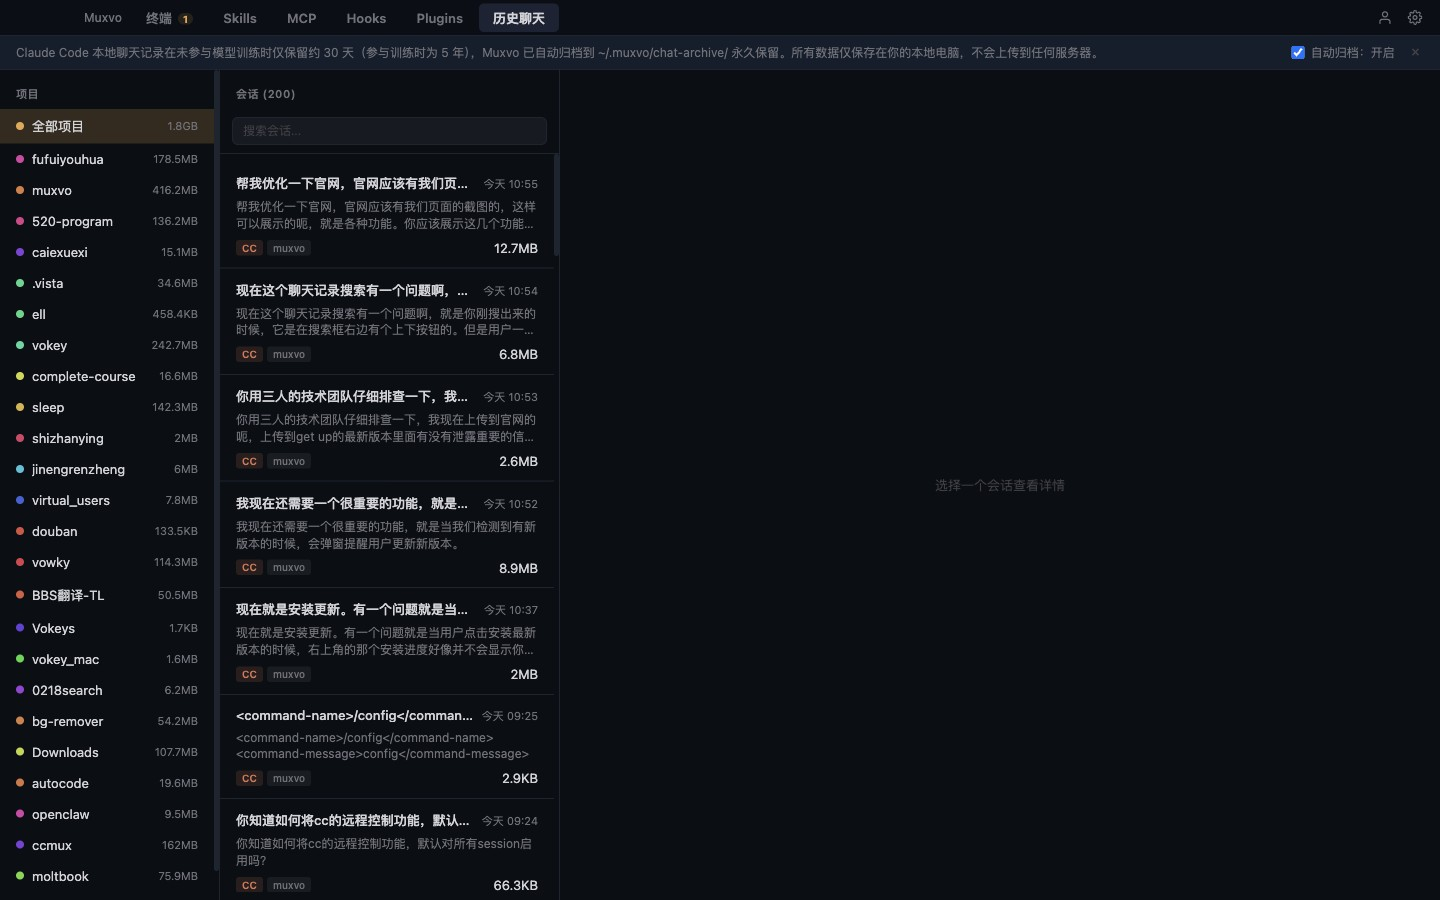
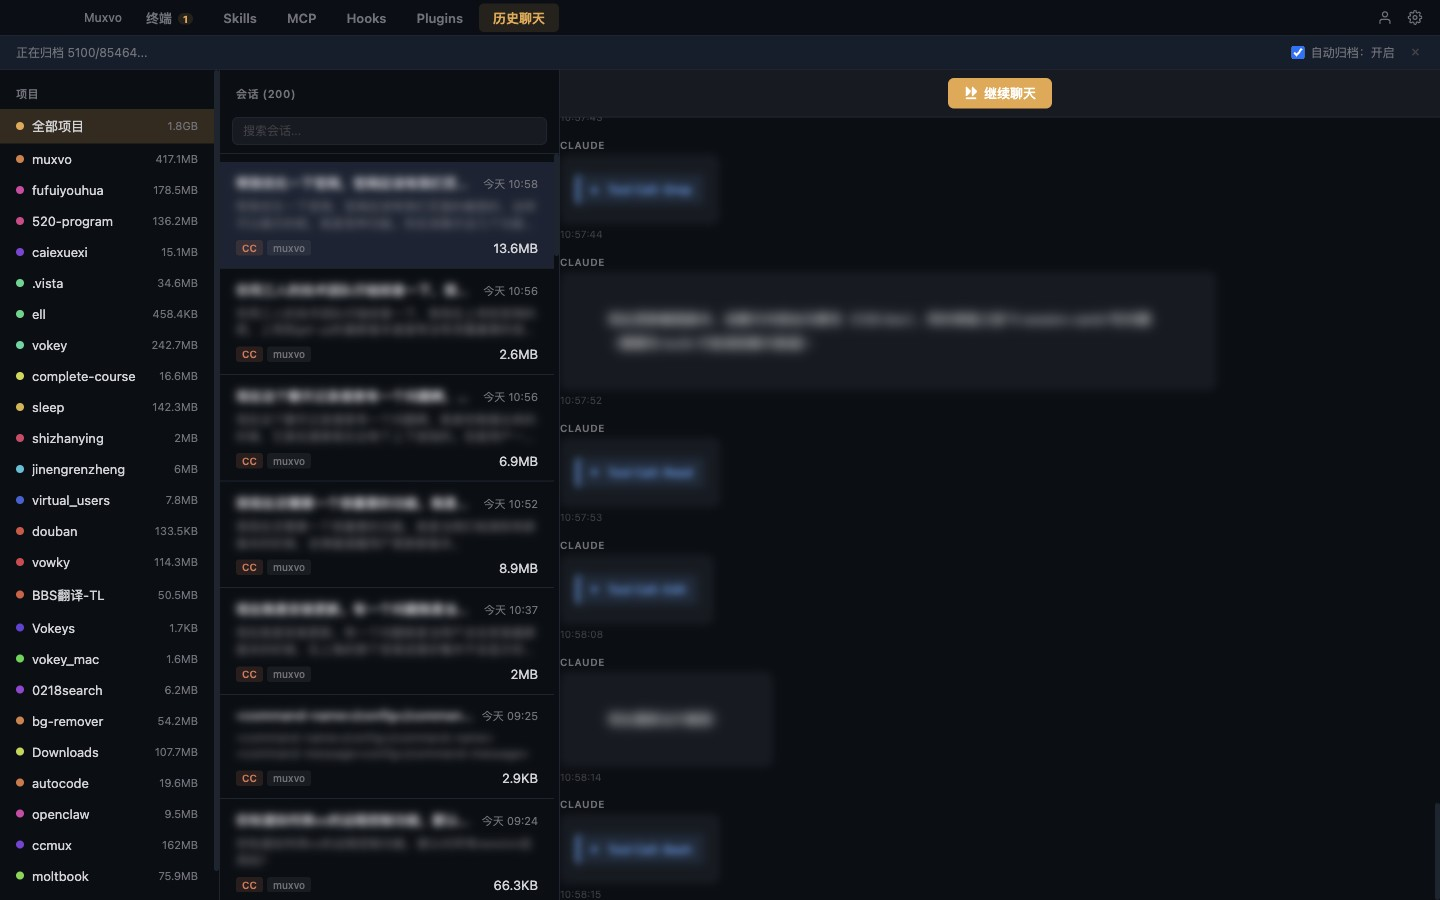
✨ feat: 更新截图脚本并新增暗色主题截图
- 新增暗色主题截图：dark-4terminals.jpg 和 dark-focused.jpg
- 优化截图脚本：支持强制应用暗色主题到终端
- 改进隐私保护：为聊天历史截图添加内容模糊效果
- 更新截图流程：通过点击 FAB 按钮创建多个终端实例
- 优化截图质量：重新生成 dark-multi-tool.jpg 和 dark-resume-chat.jpg，文件大小更合理

diff --git a/web/scripts/take-screenshots.ts b/web/scripts/take-screenshots.ts
@@ -1,7 +1,11 @@
 /**
- * Playwright Electron Screenshot Script — v2
+ * Playwright Electron Screenshot Script — v4
  *
- * Takes dark-theme screenshots for the Muxvo website.
+ * Takes dark-theme screenshots of Muxvo for the website.
+ * - Forces xterm dark theme via muxvo:theme-change event
+ * - Creates multiple terminals via .terminal-grid__fab button
+ * - Triggers focused mode via double-click on terminal tile
+ * - Blurs chat content for privacy
  *
  * Prerequisites: npx electron-vite build
  * Run: npx tsx web/scripts/take-screenshots.ts
@@ -39,6 +43,17 @@ async function startStaticServer(): Promise<ChildProcess> {
   return server;
 }
 
+/** Force xterm dark theme via the app's custom event */
+async function forceXtermDarkTheme(page: any) {
+  await page.evaluate(() => {
+    // Dispatch the app's theme-change event so xterm picks up dark theme
+    window.dispatchEvent(new CustomEvent('muxvo:theme-change', {
+      detail: { theme: 'dark' },
+    }));
+  });
+  await page.waitForTimeout(500);
+}
+
 async function main() {
   console.log('Starting static server for renderer...');
   const server = await startStaticServer();
@@ -56,29 +71,57 @@ async function main() {
   });
   const page = await app.firstWindow();
   await page.waitForLoadState('domcontentloaded');
-  await page.waitForTimeout(5000);
+  await page.waitForTimeout(6000); // Wait for React mount + data load
 
-  // Force dark theme
+  // Force dark theme on the whole app
   await page.evaluate(() => {
     document.documentElement.setAttribute('data-theme', 'dark');
   });
   await page.setViewportSize({ width: 1440, height: 900 });
   await page.waitForTimeout(500);
 
+  // Force xterm dark theme
+  await forceXtermDarkTheme(page);
+
   try {
-    // ── Screenshot 1: Chat History with Resume Bar ──────────────
+    // ════════════════════════════════════════════════════════════
+    // Screenshot 1: Chat History with blurred content + resume bar
+    // ════════════════════════════════════════════════════════════
     console.log('📸 Screenshot 1: dark-resume-chat.jpg');
     const chatTab = page.locator('.menu-bar__tab', { hasText: /历史聊天|Chat/ });
     await chatTab.click();
-    await page.waitForTimeout(2000);
+    await page.waitForTimeout(3000);
 
-    // Click first session to show detail panel + resume bar
-    const sessionCard = page.locator('.session-card').first();
-    const hasSession = await sessionCard.isVisible({ timeout: 5000 }).catch(() => false);
-    if (hasSession) {
-      await sessionCard.click();
-      await page.waitForTimeout(2000);
+    // Click first session to show detail + resume bar
+    const sessionCards = page.locator('.session-card');
+    const cardCount = await sessionCards.count();
+    console.log(`  Found ${cardCount} session cards`);
+    if (cardCount > 0) {
+      await sessionCards.first().click();
+      await page.waitForTimeout(3000);
     }
+
+    // Blur chat content for privacy
+    await page.evaluate(() => {
+      const style = document.createElement('style');
+      style.id = 'privacy-blur';
+      style.textContent = `
+        .session-card__title,
+        .session-card__preview,
+        .session-card__snippet { filter: blur(4px) !important; }
+        .message-bubble__text,
+        .message-bubble__content,
+        .message-content,
+        [class*="message"] p,
+        [class*="message"] pre,
+        [class*="message"] code,
+        .session-detail__messages .msg__body,
+        .session-detail__messages .msg__text { filter: blur(4px) !important; }
+        .project-item__name { filter: blur(3px) !important; }
+      `;
+      document.head.appendChild(style);
+    });
+    await page.waitForTimeout(300);
 
     await page.screenshot({
       path: resolve(OUTPUT, 'dark-resume-chat.jpg'),
@@ -87,21 +130,71 @@ async function main() {
     });
     console.log('  ✅ dark-resume-chat.jpg saved');
 
-    // ── Screenshot 2: Terminals (default view) ──────────────────
-    console.log('📸 Screenshot 2: dark-terminals.jpg (terminals view)');
+    // Remove blur
+    await page.evaluate(() => document.getElementById('privacy-blur')?.remove());
+
+    // ════════════════════════════════════════════════════════════
+    // Create 4 terminals for tiling + focused mode screenshots
+    // ════════════════════════════════════════════════════════════
+    console.log('📸 Preparing terminals...');
     const termTab = page.locator('.menu-bar__tab').first();
     await termTab.click();
-    await page.waitForTimeout(1000);
+    await page.waitForTimeout(1500);
 
+    // Click the FAB "+" button to add terminals (need 3 more for total 4)
+    const fabBtn = page.locator('.terminal-grid__fab');
+    for (let i = 0; i < 3; i++) {
+      const visible = await fabBtn.isVisible({ timeout: 3000 }).catch(() => false);
+      if (visible) {
+        await fabBtn.click();
+        await page.waitForTimeout(2000);
+        // Re-apply dark xterm theme for each new terminal
+        await forceXtermDarkTheme(page);
+      } else {
+        console.log(`  FAB button not visible at iteration ${i}`);
+        break;
+      }
+    }
+    await page.waitForTimeout(1000);
+    // Force dark theme again for all terminals
+    await forceXtermDarkTheme(page);
+    await page.waitForTimeout(500);
+
+    // ════════════════════════════════════════════════════════════
+    // Screenshot 2: 4 Terminals tiled
+    // ════════════════════════════════════════════════════════════
+    console.log('📸 Screenshot 2: dark-4terminals.jpg');
     await page.screenshot({
-      path: resolve(OUTPUT, 'dark-terminals.jpg'),
+      path: resolve(OUTPUT, 'dark-4terminals.jpg'),
       type: 'jpeg',
       quality: 90,
     });
-    console.log('  ✅ dark-terminals.jpg saved');
+    console.log('  ✅ dark-4terminals.jpg saved');
 
-    // ── Screenshot 3: Skills Panel ──────────────────────────────
-    console.log('📸 Screenshot 3: dark-skills.jpg');
+    // ════════════════════════════════════════════════════════════
+    // Screenshot 3: Focused mode (double-click first terminal tile)
+    // ════════════════════════════════════════════════════════════
+    console.log('📸 Screenshot 3: dark-focused.jpg');
+    const firstTile = page.locator('.terminal-tile').first();
+    const tileVisible = await firstTile.isVisible({ timeout: 3000 }).catch(() => false);
+    if (tileVisible) {
+      await firstTile.dblclick();
+      await page.waitForTimeout(1500);
+      await forceXtermDarkTheme(page);
+      await page.waitForTimeout(500);
+    }
+
+    await page.screenshot({
+      path: resolve(OUTPUT, 'dark-focused.jpg'),
+      type: 'jpeg',
+      quality: 90,
+    });
+    console.log('  ✅ dark-focused.jpg saved');
+
+    // ════════════════════════════════════════════════════════════
+    // Screenshot 4: Skills Panel
+    // ════════════════════════════════════════════════════════════
+    console.log('📸 Screenshot 4: dark-skills.jpg');
     const skillsTab = page.locator('.menu-bar__tab', { hasText: 'Skills' });
     await skillsTab.click();
     await page.waitForTimeout(2000);
@@ -120,7 +213,15 @@ async function main() {
     });
     console.log('  ✅ dark-skills.jpg saved');
 
-    console.log('\n✅ Screenshots saved to web/public/screenshots/');
+    // Use same skills screenshot for multi-tool
+    await page.screenshot({
+      path: resolve(OUTPUT, 'dark-multi-tool.jpg'),
+      type: 'jpeg',
+      quality: 90,
+    });
+    console.log('  ✅ dark-multi-tool.jpg saved');
+
+    console.log('\n✅ All screenshots saved to web/public/screenshots/');
   } finally {
     await app.close();
     server.kill();
